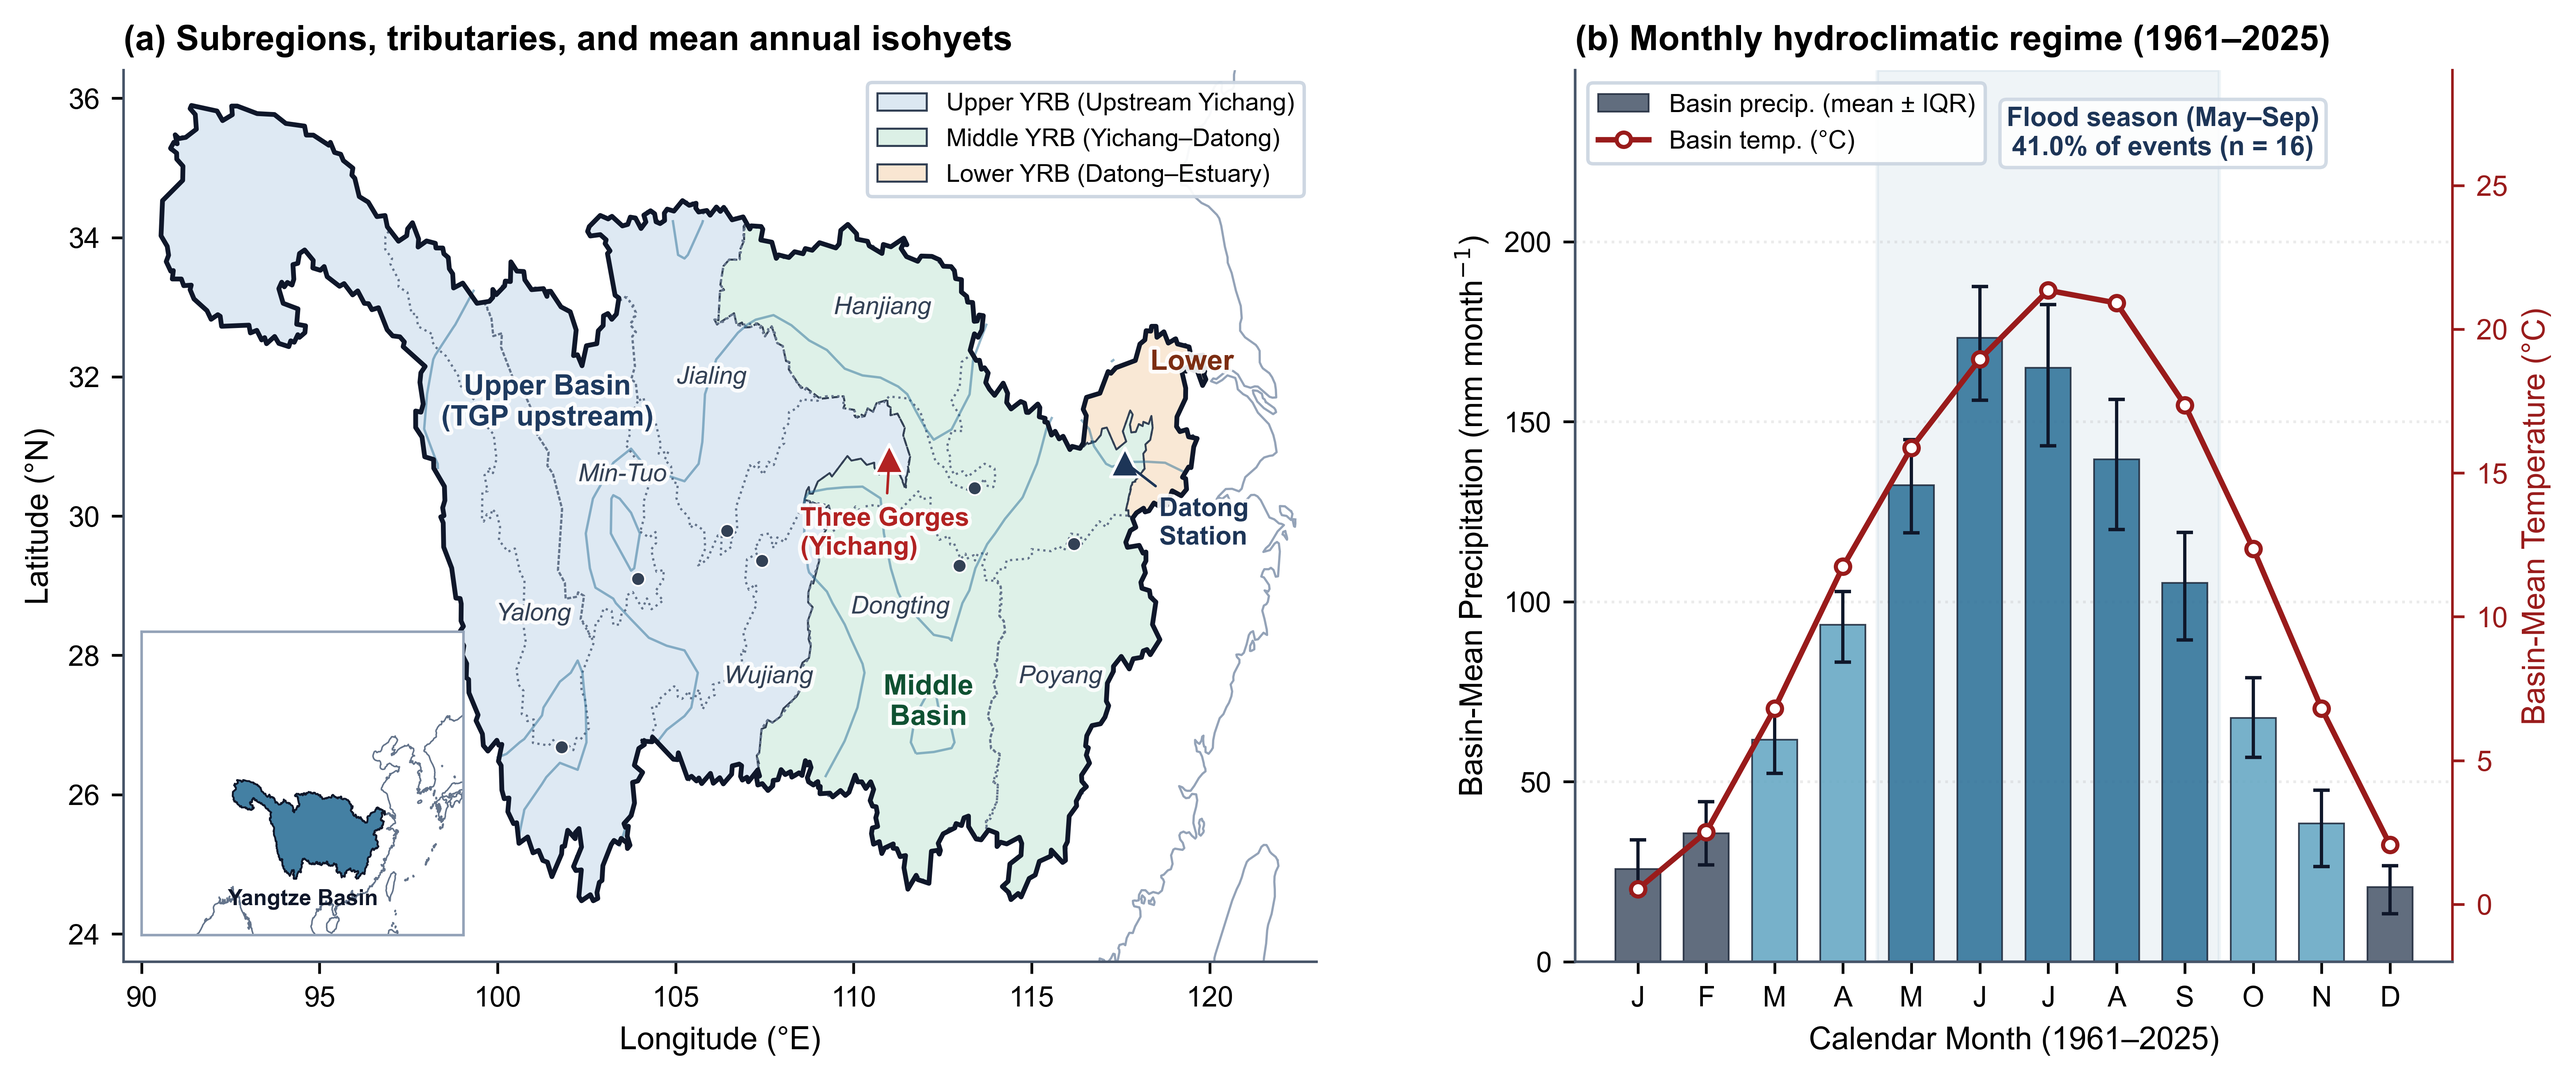
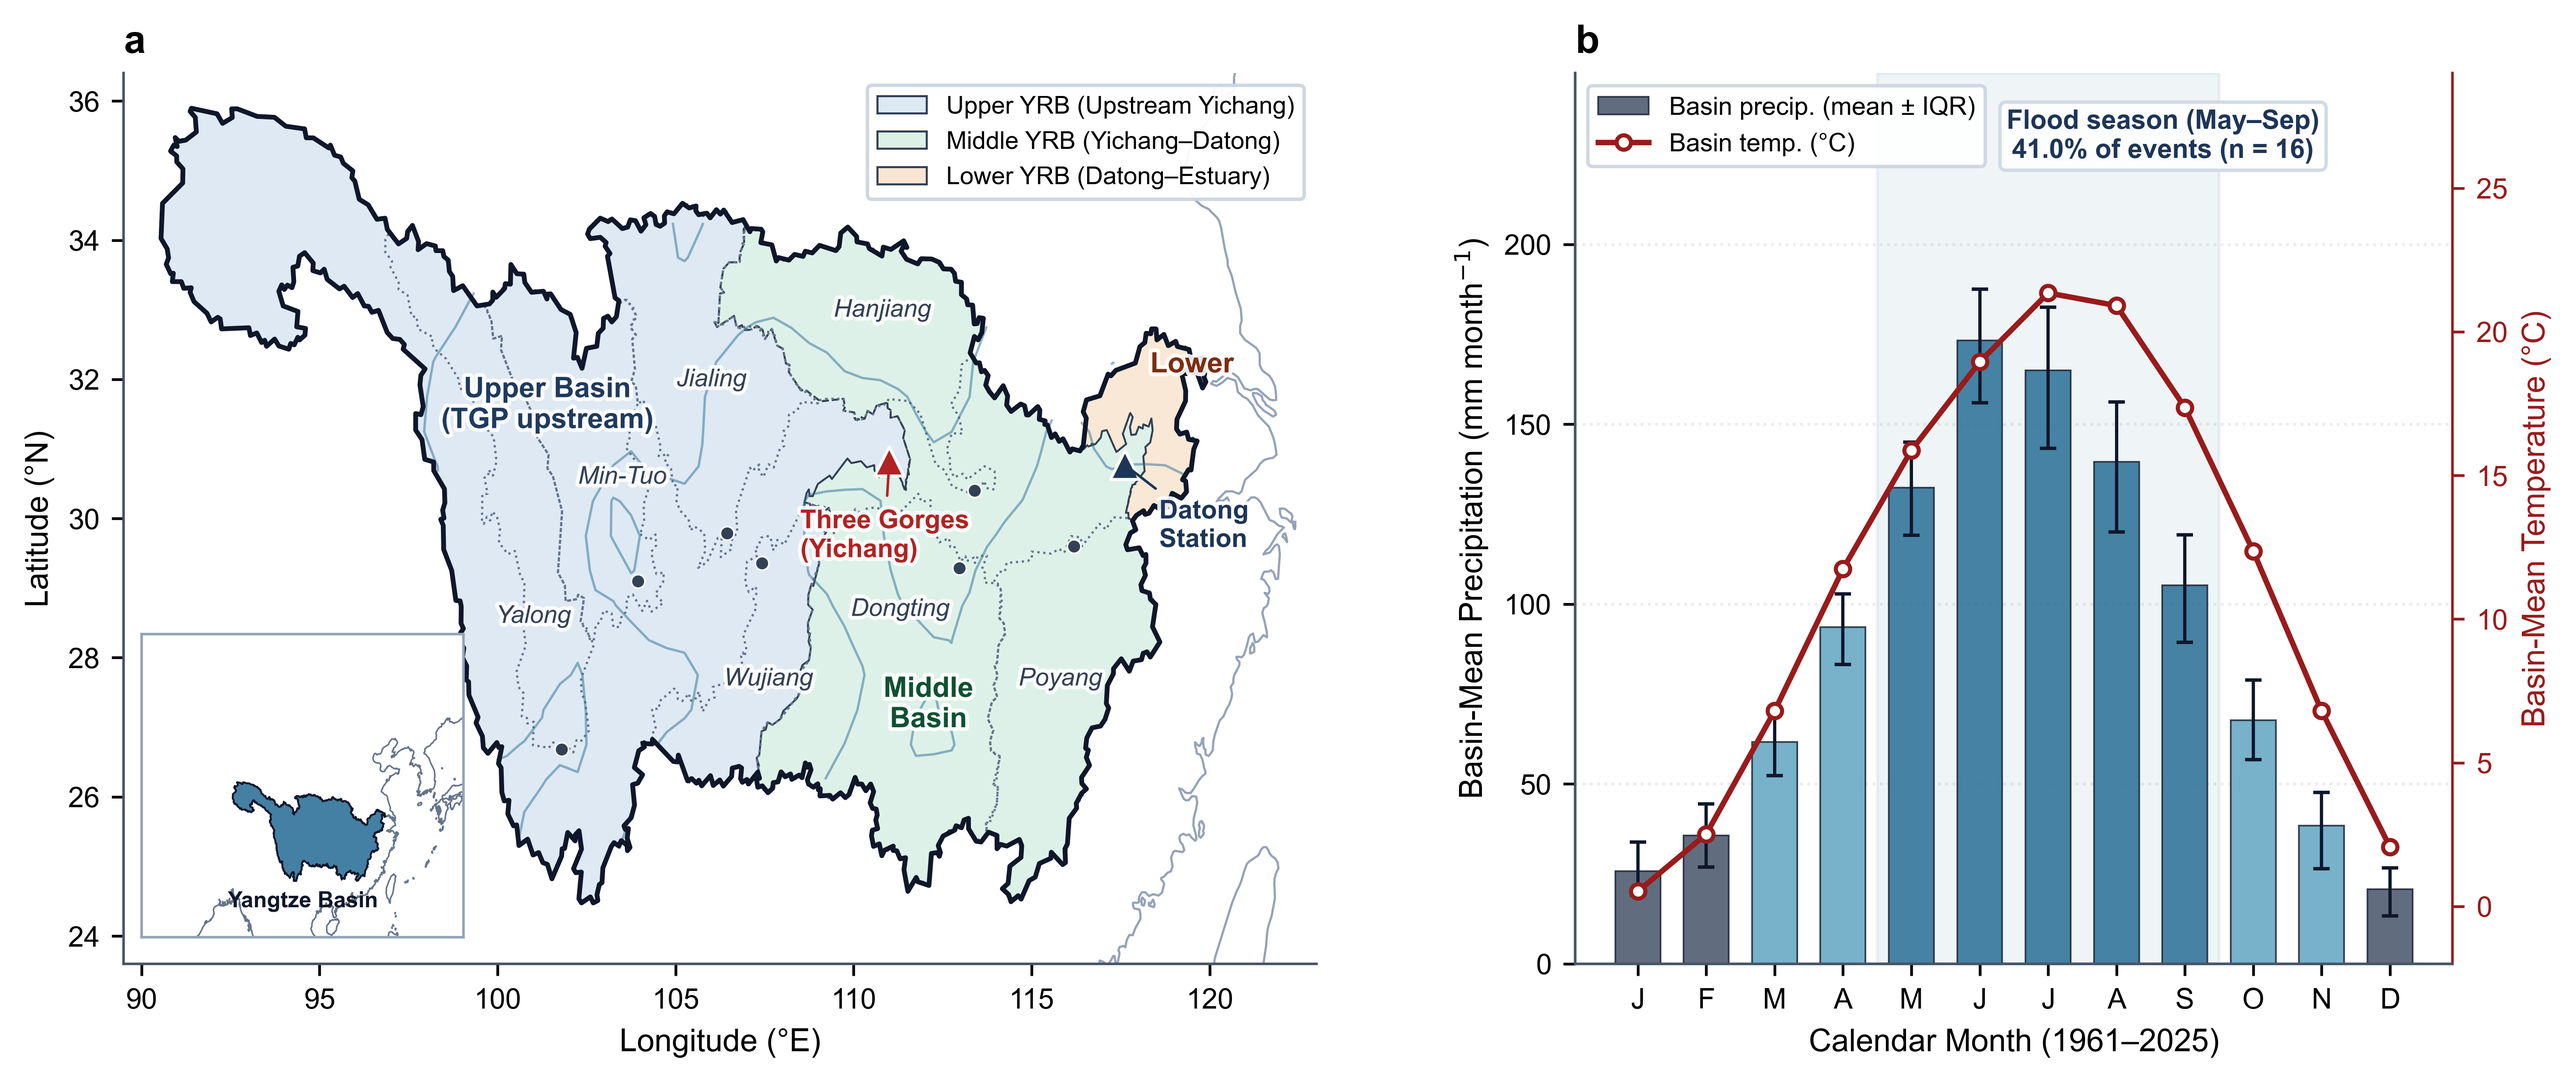
Align figures to 8-bit RGB vector layout with lowercase panel labels

diff --git a/src/figures.py b/src/figures.py
@@ -3,6 +3,7 @@
 from pathlib import Path
 import numpy as np
 import pandas as pd
+from PIL import Image
 import matplotlib
 matplotlib.use("Agg")
 import matplotlib.pyplot as plt
@@ -57,7 +58,12 @@ def _save_fig(fig, out_dir, stem, formats=("png",), dpi=600):
     out_dir = Path(out_dir)
     out_dir.mkdir(parents=True, exist_ok=True)
     for fmt in formats:
-        fig.savefig(out_dir / f"{stem}.{fmt}", dpi=dpi, bbox_inches="tight")
+        p = out_dir / f"{stem}.{fmt}"
+        fig.savefig(p, dpi=dpi, bbox_inches="tight", facecolor="white")
+        if fmt.lower() == "png":
+            with Image.open(p) as im:
+                if im.mode != "RGB":
+                    im.convert("RGB").save(p, format="PNG", dpi=(dpi, dpi))
     plt.close(fig)
 
 
@@ -175,7 +181,7 @@ def plot_fig1_study_area(mask, clim_df, vectors, out_dir, formats=("png",)):
     ax.set_ylim(23.6, 36.4)
     ax.set_xlabel("Longitude (°E)")
     ax.set_ylabel("Latitude (°N)")
-    ax.set_title("(a) Subregions, tributaries, and mean annual isohyets", loc="left")
+    ax.set_title("a", loc="left", fontsize=11.5, fontweight="bold")
 
     # Panel (b): Monthly precipitation climatology + Temperature annual cycle
     ax2 = fig.add_subplot(gs[0, 1])
@@ -218,7 +224,7 @@ def plot_fig1_study_area(mask, clim_df, vectors, out_dir, formats=("png",)):
     h1, l1 = ax2.get_legend_handles_labels()
     h2, l2 = ax2_t.get_legend_handles_labels()
     ax2.legend(h1 + h2, l1 + l2, loc="upper left", frameon=True, framealpha=0.92, edgecolor="#CBD5E1", fontsize=7.4)
-    ax2.set_title("(b) Monthly hydroclimatic regime (1961–2025)", loc="left")
+    ax2.set_title("b", loc="left", fontsize=11.5, fontweight="bold")
 
     _save_fig(fig, out_dir, "Fig1", formats=formats)
 
@@ -279,7 +285,7 @@ def plot_fig2_tributary_amplification(trib_df, out_dir, formats=("png",)):
              f"Ratio vs. $F_w$: $r_s = -0.59$ ($p < 10^{{-4}}$)",
              transform=ax1.transAxes, va="top", fontsize=7.6,
              bbox=dict(boxstyle="round,pad=0.33", facecolor="#F8FAFC", edgecolor="#CBD5E1"))
-    ax1.set_title("(a) Subbasin vs. basin-mean $F_w$", loc="left")
+    ax1.set_title("a", loc="left", fontsize=11.5, fontweight="bold")
 
     # Panel (b): Stacked event counts (Mild vs Mod/Sev) by tributary
     order = ["Poyang", "Dongting", "Hanjiang", "Wujiang", "Jialing", "Min-Tuo", "Yalong"]
@@ -301,7 +307,7 @@ def plot_fig2_tributary_amplification(trib_df, out_dir, formats=("png",)):
     ax2.grid(axis="x", ls=":", alpha=0.25, zorder=0)
     ax2.set_xlabel("Peak Event Count (Total = 39)")
     ax2.legend(loc="upper right", frameon=True, framealpha=0.93, edgecolor="#CBD5E1", fontsize=7.0)
-    ax2.set_title("(b) Stratified frequency", loc="left")
+    ax2.set_title("b", loc="left", fontsize=11.5, fontweight="bold")
 
     # Panel (c): Amplification ratio distribution per peak tributary
     rng_j = np.random.default_rng(42)
@@ -329,7 +335,7 @@ def plot_fig2_tributary_amplification(trib_df, out_dir, formats=("png",)):
     ax3.set_xlim(0.8, max(ratio) * 1.10)
     ax3.grid(axis="x", ls=":", alpha=0.25, zorder=0)
     ax3.set_xlabel("SPI Amplification ($F_{w,\\mathrm{trib}} / F_{w,\\mathrm{basin}}$)")
-    ax3.set_title("(c) Ratio spread", loc="left")
+    ax3.set_title("c", loc="left", fontsize=11.5, fontweight="bold")
 
     _save_fig(fig, out_dir, "Fig2", formats=formats)
 
@@ -368,7 +374,7 @@ def plot_fig3_chronology_and_seasonality(events_df, out_dir, formats=("png",)):
     ax_top.text(2025.8, mean_rate + 0.06, f"Mean {mean_rate:.2f} yr$^{{-1}}$", fontsize=7.1,
                 color="#475569", ha="right", va="bottom")
     plt.setp(ax_top.get_xticklabels(), visible=False)
-    ax_top.set_title("(a) Event chronology and decadal transition rate (1961–2025)", loc="left")
+    ax_top.set_title("a", loc="left", fontsize=11.5, fontweight="bold")
 
     x_yr = events_df["year"].to_numpy() + (events_df["trans_month"].to_numpy() - 0.5) / 12.0
     sd = events_df["S_d"].to_numpy()
@@ -451,7 +457,7 @@ def plot_fig3_chronology_and_seasonality(events_df, out_dir, formats=("png",)):
     ax2.set_xticklabels(["Jan", "Feb", "Mar", "Apr", "May", "Jun", "Jul", "Aug", "Sep", "Oct", "Nov", "Dec"],
                         fontsize=8.1, fontweight="medium", color="#1E293B")
     ax2.grid(color="#CBD5E1", ls=":", lw=0.65)
-    ax2.set_title("(b) Seasonal onset rose (1961–2025)", loc="left", pad=16)
+    ax2.set_title("b", loc="left", fontsize=11.5, fontweight="bold", pad=16)
 
     leg_b = [
         mpatches.Patch(facecolor=PALETTE["blue"], edgecolor="#1E293B", lw=0.5, label="Flood May–Sep (n = 16, 41.0%)"),
@@ -525,7 +531,7 @@ def plot_fig4_dependence_and_spatial(events_df, dep_stats, marg_df, grid_df, gri
     ax_top.set_yticks([])
     ax_top.spines["left"].set_visible(False)
     plt.setp(ax_top.get_xticklabels(), visible=False)
-    ax_top.set_title("(a) Joint $S_d$–$F_w$ marginals, quantiles & independence (n = 39)", loc="left")
+    ax_top.set_title("a", loc="left", fontsize=11.5, fontweight="bold")
 
     # Right marginal: F_w horizontal histogram + fitted Gamma curve (best AICc=76.24)
     ys = np.linspace(0.2, 5.1, 120)
@@ -575,7 +581,7 @@ def plot_fig4_dependence_and_spatial(events_df, dep_stats, marg_df, grid_df, gri
     ax2.set_ylim(23.6, 36.4)
     ax2.set_xlabel("Longitude (°E)")
     ax2.set_ylabel("Latitude (°N)")
-    ax2.set_title("(b) Grid-cell $\\tau$ with BH-FDR & field-null control", loc="left")
+    ax2.set_title("b", loc="left", fontsize=11.5, fontweight="bold")
 
     _save_fig(fig, out_dir, "Fig4", formats=formats)
 
@@ -638,7 +644,7 @@ def plot_fig5_sensitivity_and_runoff(schemes_df, idx_rob_df, events_df, datong_d
     cb_hm.set_label("$\\tau$", fontsize=8.0)
     cb_hm.ax.tick_params(labelsize=7.2)
     n_sig = int((schemes_df["p_value"] < 0.05).sum())
-    ax_hm.set_title(f"(a) Parameter sensitivity matrix ({n_sig}/36 nominal p < 0.05) & index check", loc="left", fontsize=9.8)
+    ax_hm.set_title("a", loc="left", fontsize=11.5, fontweight="bold")
 
     # Bottom subpanel: Multi-index & bridge Forest Plot with Bootstrap 95% CIs
     y_fp = np.arange(len(idx_rob_df))[::-1]
@@ -710,7 +716,7 @@ def plot_fig5_sensitivity_and_runoff(schemes_df, idx_rob_df, events_df, datong_d
     ax2.set_xlabel("Basin Wet Severity $F_w$ (SPI-1 sum)")
     ax2.set_ylabel("Datong Wet-Spell Discharge Anomaly ($\\sigma$)")
     ax2.legend(loc="upper left", frameon=True, framealpha=0.93, edgecolor="#CBD5E1", fontsize=7.3)
-    ax2.set_title("(b) Datong runoff across $F_w$ and dam eras", loc="left")
+    ax2.set_title("b", loc="left", fontsize=11.5, fontweight="bold")
 
     _save_fig(fig, out_dir, "Fig5", formats=formats)
 
@@ -724,14 +730,17 @@ def plot_fig6_circulation_composites(fields, windows_df, vectors, mask, circ_sum
     norm = TwoSlopeNorm(vmin=-1.2, vcenter=0.0, vmax=1.2)
     xlim, ylim = (65, 170), (15, 62)
 
-    for col_idx, (title, z_fld, qu_fld, qv_fld, draw_5880) in enumerate([
-        ("(a) Flood transitions (May–Sep, n = 16)", fields["Z500_flood"], fields["qu_anom_flood"], fields["qv_anom_flood"], True),
-        ("(b) All transitions (Jan–Dec, n = 39)", fields["Z500_all"], fields["qu_anom_all"], fields["qv_anom_all"], False),
+    for col_idx, (panel_lbl, badge_txt, z_fld, qu_fld, qv_fld, draw_5880) in enumerate([
+        ("a", "May–Sep flood (n = 16)", fields["Z500_flood"], fields["qu_anom_flood"], fields["qv_anom_flood"], True),
+        ("b", "All events (n = 39)", fields["Z500_all"], fields["qu_anom_all"], fields["qv_anom_all"], False),
     ]):
         ax = fig.add_subplot(gs[0, col_idx])
         cf = ax.contourf(lons_nc, lats_nc, z_fld, levels=np.linspace(-1.2, 1.2, 13), cmap="RdBu_r", norm=norm, extend="both", zorder=1)
         _draw_coastlines(ax, vectors["coast"], xlim, ylim, color="#475569", lw=0.65, zorder=2)
         _draw_rings(ax, vectors["yrb"], facecolor=None, edgecolor="#111827", lw=1.15, zorder=4)
+        ax.text(0.025, 0.96, badge_txt, transform=ax.transAxes, va="top", ha="left", fontsize=7.6,
+                fontweight="bold", color="#0F172A",
+                bbox=dict(boxstyle="round,pad=0.22", facecolor="#FFFFFF", alpha=0.86, edgecolor="#CBD5E1"), zorder=6)
 
         ax.add_patch(mpatches.Rectangle((125, 35), 25, 15, fill=False, edgecolor="#7F1D1D", lw=1.3, ls="-", zorder=5))
         ax.add_patch(mpatches.Rectangle((90, 25), 20, 17, fill=False, edgecolor="#1E3A8A", lw=1.3, ls="-", zorder=5))
@@ -757,7 +766,7 @@ def plot_fig6_circulation_composites(fields, windows_df, vectors, mask, circ_sum
         ax.set_xlabel("Longitude (°E)")
         if col_idx == 0:
             ax.set_ylabel("Latitude (°N)")
-        ax.set_title(title, loc="left")
+        ax.set_title(panel_lbl, loc="left", fontsize=11.5, fontweight="bold")
 
         if col_idx == 1:
             cax = fig.add_axes([0.92, 0.52, 0.015, 0.35])
@@ -765,9 +774,9 @@ def plot_fig6_circulation_composites(fields, windows_df, vectors, mask, circ_sum
             cb.set_label("Z500 Standardized Anomaly ($\\sigma$)")
 
     lags = np.array([-3, -2, -1, 0, 1])
-    for col_idx, (idx_code, title, ylabel) in enumerate([
-        ("DIV_ps", "(c) Moisture divergence ($\\mathrm{DIV}_{ps}$) window", "Standardized Divergence ($\\sigma$)"),
-        ("DI500", "(d) Dipole index (DI500) window", "DI500 Anomaly ($\\sigma$)"),
+    for col_idx, (idx_code, panel_lbl, ylabel) in enumerate([
+        ("DIV_ps", "c", "$\\mathrm{DIV}_{ps}$ Divergence ($\\sigma$)"),
+        ("DI500", "d", "DI500 Anomaly ($\\sigma$)"),
     ]):
         ax = fig.add_subplot(gs[1, col_idx])
         sub_fl = windows_df[(windows_df["index"] == idx_code) & (windows_df["stratum"] == "Flood")].sort_values("lag")
@@ -797,7 +806,7 @@ def plot_fig6_circulation_composites(fields, windows_df, vectors, mask, circ_sum
         ax.set_xlabel("Lag Relative to Wet-Spell Onset Month $t_0$")
         ax.set_ylabel(ylabel)
         ax.legend(loc="lower left", frameon=True, framealpha=0.92, edgecolor="#CBD5E1", fontsize=7.5)
-        ax.set_title(title, loc="left")
+        ax.set_title(panel_lbl, loc="left", fontsize=11.5, fontweight="bold")
 
     _save_fig(fig, out_dir, "Fig6", formats=formats)
 
@@ -842,6 +851,5 @@ def plot_esm_fig1_wave_flux(fields, vectors, mask, out_dir, formats=("png",)):
     ax.set_ylim(15, 62)
     ax.set_xlabel("Longitude (°E)")
     ax.set_ylabel("Latitude (°N)")
-    ax.set_title("200 hPa wave-activity flux and jet core (n = 16)", loc="left")
 
     _save_fig(fig, out_dir, "ESM_Fig1", formats=formats)
